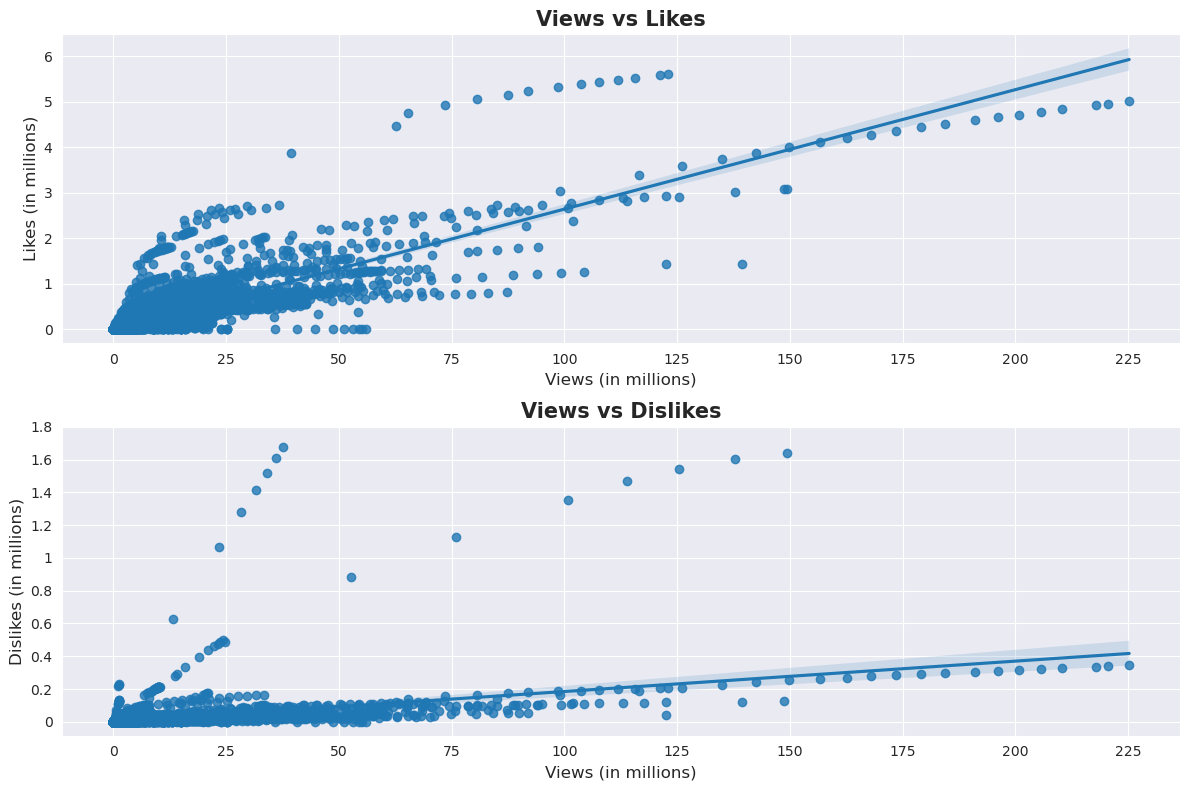
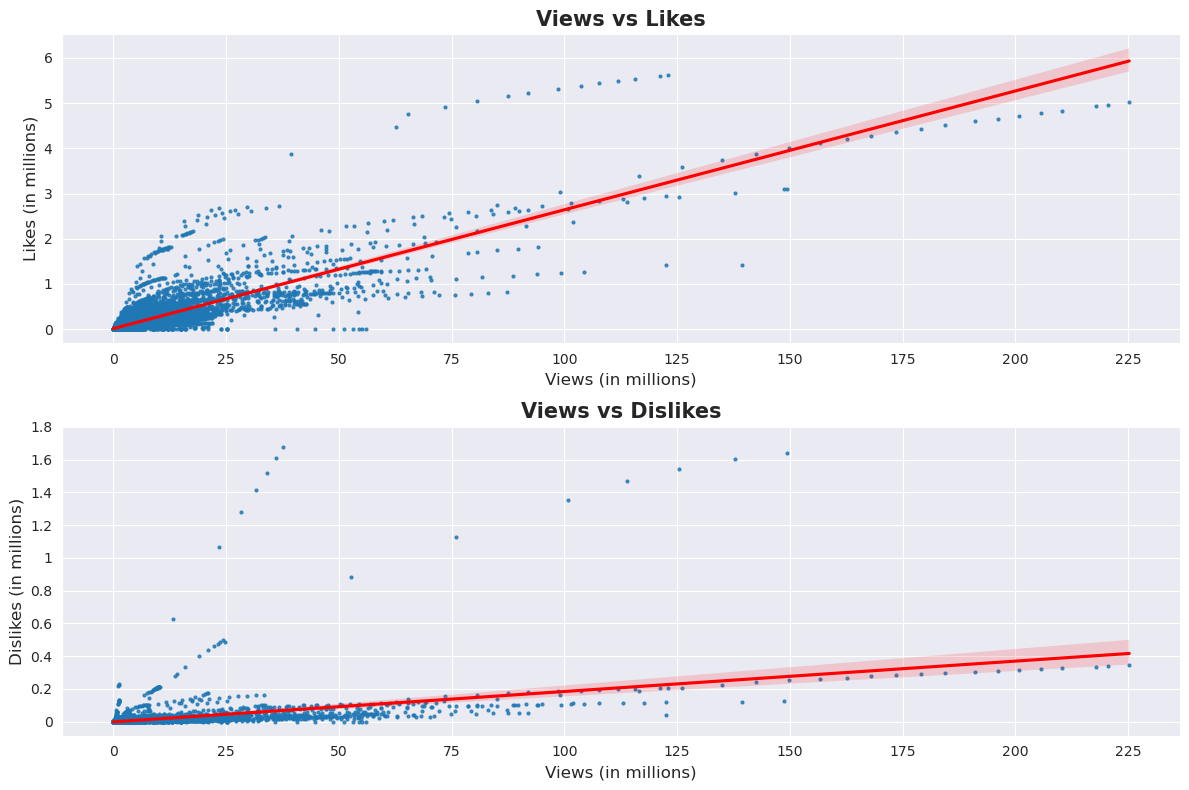
slight tweaks to vis 1

diff --git a/adam_visualization1.py b/adam_visualization1.py
@@ -35,7 +35,7 @@ def make_subplots(csv):
 
     with sns.axes_style("darkgrid"):
         ax = f.add_subplot(gs[0, 0])
-        plot = sns.regplot(x, y, data=csv)
+        plot = sns.regplot(x, y, data=csv, scatter_kws={'s':4}, line_kws={"color": "red"})
         plot.set_xlabel('Views (in millions)', fontsize=12)
         plot.set_ylabel('Likes (in millions)', fontsize=12)
         plot.set_title('Views vs Likes', fontsize=15, weight=600)
@@ -46,7 +46,7 @@ def make_subplots(csv):
 
     with sns.axes_style("darkgrid"):
         ax = f.add_subplot(gs[1, 0])
-        plot2 = sns.regplot(x, z, data=csv)
+        plot2 = sns.regplot(x, z, data=csv, scatter_kws={'s':4}, line_kws={"color": "red"})
         plot2.set_xlabel('Views (in millions)', fontsize=12)
         plot2.set_ylabel('Dislikes (in millions)', fontsize=12)
         plot2.set_title('Views vs Dislikes', fontsize=15, weight=600)
